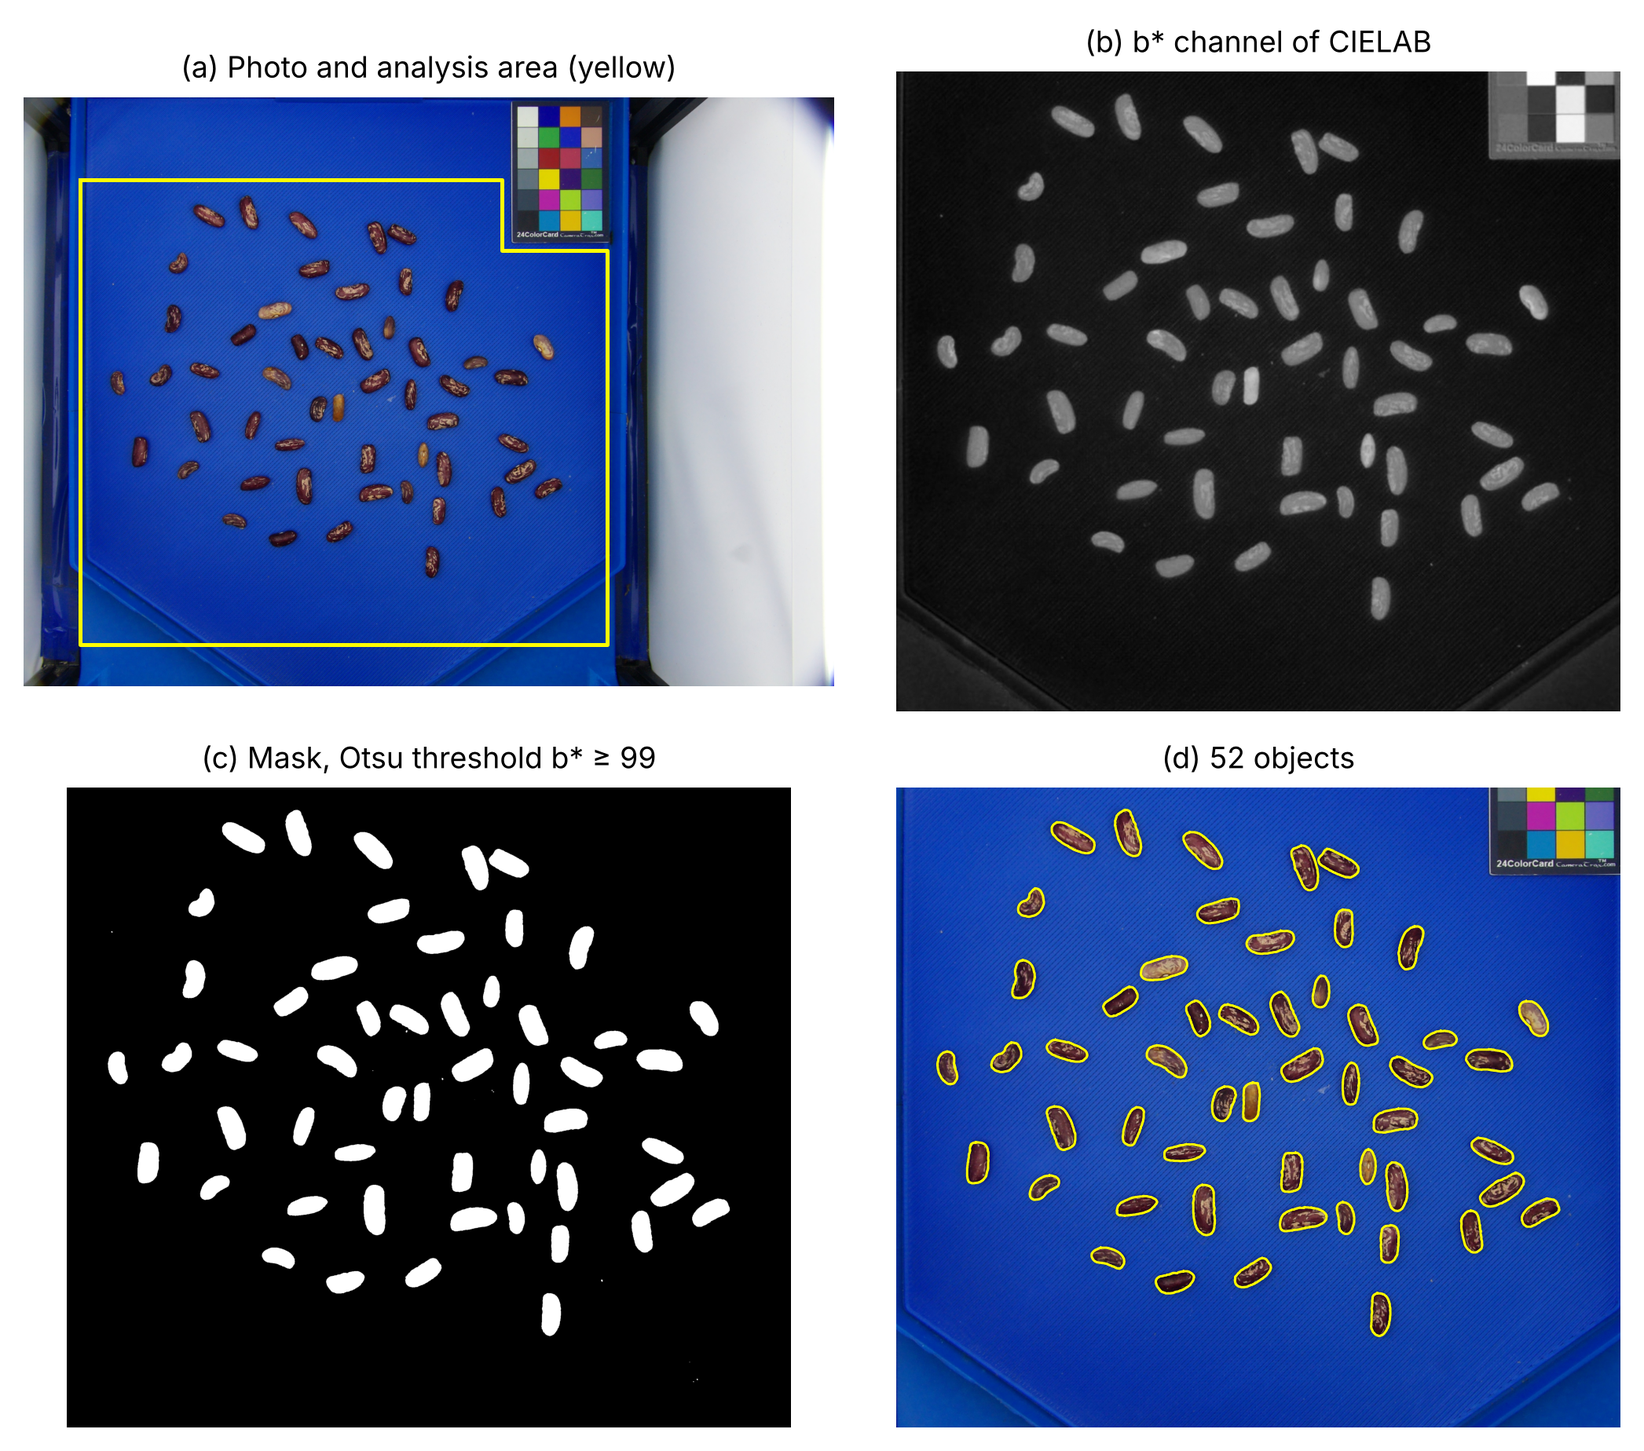
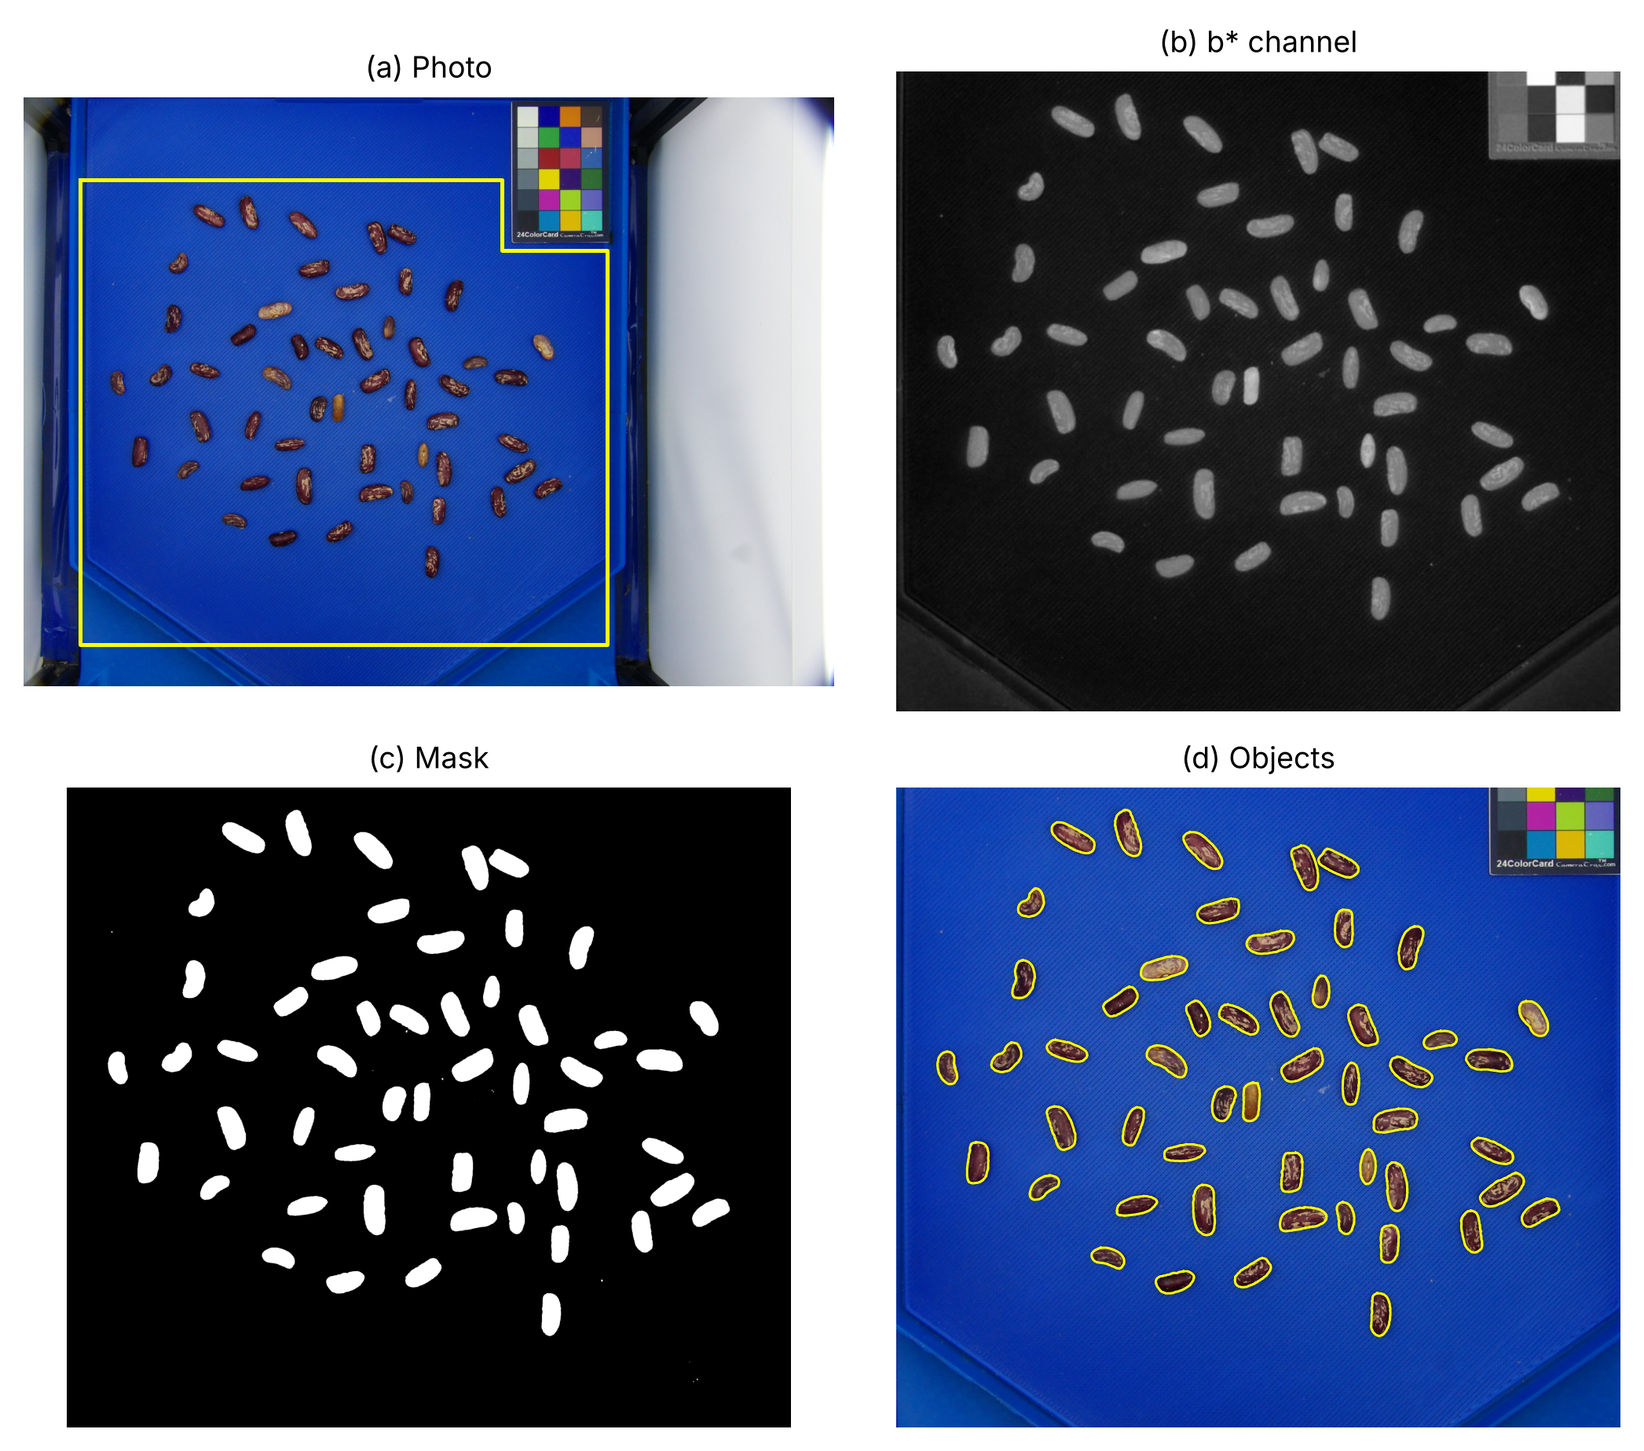
Docs: títulos y ejes cortos, explicación en los pies de figura

diff --git a/docs/make_figures.py b/docs/make_figures.py
@@ -161,16 +161,16 @@ def fig_lens():
     ax.set_axis_off()
     ax.imshow(rgb(photo[y0:y1, x0:x1]))
     ax.plot(corners[:, 0] - x0, corners[:, 1] - y0, "+", color=RED, ms=5, mew=1)
-    ax.set_title(f"(a) Chessboard, {len(corners)} inner corners")
+    ax.set_title("(a) Detected corners")
     ax = fig.add_subplot(grid[1])
     positions = np.arange(len(found))
-    ax.bar(positions - 0.2, rms_before, 0.4, color=GRAY, label=f"Original photo (mean {np.mean(rms_before):.2f} px)")
-    ax.bar(positions + 0.2, rms_after, 0.4, color=BLUE, label=f"Corrected photo (mean {np.mean(rms_after):.2f} px)")
+    ax.bar(positions - 0.2, rms_before, 0.4, color=GRAY, label="Original")
+    ax.bar(positions + 0.2, rms_after, 0.4, color=BLUE, label="Corrected")
     ax.set_xticks(positions, [str(i + 1) for i in positions])
-    ax.set_xlabel("Chessboard photo (corrected with a calibration from the other photos)")
-    ax.set_ylabel("Distance of the corners to a\nstraight line, RMS (px)")
+    ax.set_xlabel("Chessboard photo")
+    ax.set_ylabel("Line deviation, RMS (px)")
     ax.legend(frameon=False, loc="upper right")
-    ax.set_title("(b) Straightness of the chessboard rows and columns")
+    ax.set_title("(b) Straightness")
     save(fig, "lens.png")
     print(f"lens: {len(found)} photos, reprojection RMS {full.rms_error:.2f} px, "
           f"straightness {np.mean(rms_before):.2f} -> {np.mean(rms_after):.2f} px "
@@ -236,21 +236,21 @@ def fig_colorcard():
     for index, (x, y) in enumerate(centers):
         ax.text(x - x0, y - y0, str(index + 1), ha="center", va="center", fontsize=5.5, color="white",
                 bbox={"boxstyle": "circle,pad=0.15", "fc": "black", "ec": "none", "alpha": 0.55})
-    ax.set_title("(a) The 24 patches located")
+    ax.set_title("(a) Color card")
     patch_grid(fig.add_subplot(grid[0, 1]), data["measured"], reference, data["before"],
                "(b) Before correction")
     patch_grid(fig.add_subplot(grid[0, 2]), data["corrected"], reference, data["after"],
                "(c) After correction")
     ax = fig.add_subplot(grid[1, :])
     positions = np.arange(24)
-    ax.bar(positions - 0.2, data["before"], 0.4, color=GRAY, label=f"Before (mean {data['before'].mean():.1f})")
-    ax.bar(positions + 0.2, data["after"], 0.4, color=BLUE, label=f"After (mean {data['after'].mean():.1f})")
+    ax.bar(positions - 0.2, data["before"], 0.4, color=GRAY, label="Before")
+    ax.bar(positions + 0.2, data["after"], 0.4, color=BLUE, label="After")
     ax.set_xticks(positions, [str(i + 1) for i in positions])
     ax.set_xlabel("Patch")
-    ax.set_ylabel("Color difference (ΔE$_{00}$)")
+    ax.set_ylabel("ΔE$_{00}$")
     ax.set_ylim(0, 1.3 * max(data["before"].max(), data["after"].max()))
     ax.legend(frameon=False, ncol=2, loc="upper right")
-    ax.set_title("(d) Difference between each patch and its reference color")
+    ax.set_title("(d) Difference to the reference")
     save(fig, "colorcard.png")
     for photo in (CALIBRATION / "colorCard.jpg", DATA / "Cgiar_Bean_Sequia_Seeds" / "calibracion" / "colorCard.jpg",
                   DATA / "images" / "card_cameratrax.jpg"):
@@ -285,18 +285,18 @@ def fig_segmentation():
     axes[0, 0].imshow(rgb(img))
     closed = np.vstack([points, points[:1]])
     axes[0, 0].plot(closed[:, 0], closed[:, 1], color="yellow", lw=1.2)
-    axes[0, 0].set_title("(a) Photo and analysis area (yellow)")
+    axes[0, 0].set_title("(a) Photo")
     axes[0, 1].imshow(channel[view], cmap="gray")
-    axes[0, 1].set_title("(b) b* channel of CIELAB")
+    axes[0, 1].set_title("(b) b* channel")
     axes[1, 0].imshow(ctx.mask[view], cmap="gray")
-    axes[1, 0].set_title(f"(c) Mask, Otsu threshold b* ≥ {ctx.extra.get('otsu_threshold', 0):.0f}")
+    axes[1, 0].set_title("(c) Mask")
     axes[1, 1].imshow(rgb(img[view]))
     for object_id in range(1, int(ctx.labels.max()) + 1):
         mask = ctx.labels[view] == object_id
         if mask.any():
             contour = outline(mask)
             axes[1, 1].plot(contour[:, 0], contour[:, 1], color="yellow", lw=0.7)
-    axes[1, 1].set_title(f"(d) {int(ctx.labels.max())} objects")
+    axes[1, 1].set_title("(d) Objects")
     fig.tight_layout()
     save(fig, "segmentation.png")
 
@@ -311,13 +311,13 @@ def fig_segmentation():
     counts, _ = np.histogram(values, bins=256, range=(0, 255))
     ax.set_ylim(top=counts.max() * 40)
     ax.set_xlim(values.min() - 5, values.max() + 5)
-    ax.set_xlabel("b* value (8-bit scale; lower = bluer)")
-    ax.set_ylabel("Pixels (log scale)")
+    ax.set_xlabel("b*")
+    ax.set_ylabel("Pixels")
     below, above = values[values < threshold], values[values >= threshold]
     for group, name in ((below, "blue tray"), (above, "seeds")):
         peak = int(np.bincount(group.astype(int)).argmax())
         ax.text(peak, counts.max() * 4, name, fontsize=7, ha="center")
-    ax.text(threshold + 2, counts.max() * 12, f"Otsu threshold = {threshold:.0f}", fontsize=7, color=RED)
+    ax.text(threshold + 2, counts.max() * 12, f"Otsu {threshold:.0f}", fontsize=7, color=RED)
     save(fig, "otsu_histogram.png")
 
 
@@ -433,7 +433,7 @@ def fig_banana():
         ax.bar(positions, share, bottom=bottom, color=color, label=name.capitalize(), width=0.7)
         bottom += share
     ax.set_xticks(positions, [row["photo"] for row in rows], rotation=45, fontsize=6.5)
-    ax.set_ylabel("Share of the leaf (%)")
+    ax.set_ylabel("Share (%)")
     ax.set_ylim(0, 100)
     ax.legend(frameon=False, ncol=3, loc="lower right", bbox_to_anchor=(1.0, 1.0), fontsize=7.5)
     twin = ax.twinx()
@@ -441,7 +441,7 @@ def fig_banana():
     twin.set_ylabel("Leaf area (cm²)")
     twin.spines["top"].set_visible(False)
     ax.set_xlabel("Photo")
-    ax.set_title("(d) Leaf area and share of each color in the 13 photos", loc="left")
+    ax.set_title("(d) Leaf colors and area", loc="left")
     save(fig, "banana.png")
     print(f"banana: card {np.median(heights):.1f} px tall (range {min(heights):.1f}-{max(heights):.1f}, "
           f"{len(heights)} photos) -> {mm_per_px:.4f} mm/px")
@@ -504,18 +504,18 @@ def fig_separation():
     ax[0].imshow(shown)
     ax[0].set_title("(a) Touching seeds")
     ax[1].imshow(binary, cmap="gray")
-    ax[1].set_title("(b) Mask: one\nconnected region")
+    ax[1].set_title("(b) Mask")
     ax[2].imshow(distance, cmap="magma")
     ax[2].plot(peaks[:, 1], peaks[:, 0], "c+", ms=8, mew=1.5)
-    ax[2].set_title("(c) Distance to the\nbackground and its peaks")
+    ax[2].set_title("(c) Distance transform")
     ax[3].imshow(np.ma.masked_equal(basins, 0), cmap="tab10", interpolation="nearest")
-    ax[3].set_title("(d) Watershed from\nthe peaks")
+    ax[3].set_title("(d) Watershed")
     ax[4].imshow(shown)
     for object_id in range(1, int(final.labels.max()) + 1):
         if (final.labels == object_id).any():
             contour = outline(final.labels == object_id)
             ax[4].plot(contour[:, 0], contour[:, 1], lw=1.2, color="yellow")
-    ax[4].set_title(f"(e) Final objects: {len(np.unique(final.labels)) - 1}")
+    ax[4].set_title("(e) Objects")
     save(fig, "separation.png")
 
 
@@ -558,7 +558,7 @@ def fig_morphometry():
     ax[0].plot(contour[:, 0], contour[:, 1], color="#FFD700", lw=1)
     ax[0].plot(*np.vstack([rect, rect[:1]]).T, color=RED, lw=1)
     ax[0].plot(cx, cy, "w+", ms=8)
-    ax[0].set_title("(a) Outline, smallest enclosing\nrectangle and centroid")
+    ax[0].set_title("(a) Enclosing rectangle")
     gap = np.zeros(mask.shape, np.uint8)
     cv2.fillPoly(gap, [hull.astype(np.int32)], 1)
     gap = (gap > 0) & ~(mask > 0)
@@ -567,7 +567,7 @@ def fig_morphometry():
     ax[1].imshow(shade)
     ax[1].plot(contour[:, 0], contour[:, 1], color="#FFD700", lw=0.7)
     ax[1].plot(*np.vstack([hull, hull[:1]]).T, color=GREEN, lw=1.1, ls=(0, (3, 2)), zorder=3)
-    ax[1].set_title("(b) Convex hull (dashed green)\nover the outline (yellow)")
+    ax[1].set_title("(b) Convex hull")
     t = np.linspace(0, 2 * np.pi, 200)
     a = np.deg2rad(angle)
     x = ex + major / 2 * np.cos(t) * np.cos(a) - minor / 2 * np.sin(t) * np.sin(a)
@@ -577,7 +577,7 @@ def fig_morphometry():
     radius = np.hypot(points[:, 0] - cx, points[:, 1] - cy)
     for index, color in ((radius.argmin(), RED), (radius.argmax(), GREEN)):
         ax[2].plot([cx, points[index, 0]], [cy, points[index, 1]], color=color, lw=1)
-    ax[2].set_title("(c) Fitted ellipse, shortest and\nlongest radius from the centroid")
+    ax[2].set_title("(c) Ellipse and radii")
     save(fig, "morphometry.png")
 
 
@@ -628,9 +628,9 @@ def fig_color():
     fig, ax = panels(3, 2.9, 2.6)
     ax[0].imshow(shown)
     trim = int(np.clip(round(0.015 * np.sqrt(mask.sum())), 1, 3))
-    ax[0].set_title(f"(a) Edge removed\n({trim} px ring, magenta)")
+    ax[0].set_title("(a) Edge ring")
     ax[1].imshow(painted)
-    ax[1].set_title("(b) Each pixel replaced by\nthe color of its group (k = 3)")
+    ax[1].set_title("(b) k = 3")
     ax[2].set_axis_on()
     left = 0.0
     from fenotit.core.measurements.color import _lab
@@ -649,7 +649,7 @@ def fig_color():
     ax[2].set_xticks([])
     for side in ax[2].spines.values():
         side.set_visible(False)
-    ax[2].set_title("(c) The three colors and their\nshare of the seed")
+    ax[2].set_title("(c) Colors")
     save(fig, "color.png")
 
 
@@ -704,18 +704,18 @@ def fig_color_k():
     ax.axhline(color_step.AUTO_ERR, color=GRAY, ls="--", lw=1)
     ax.text(1, color_step.AUTO_ERR - 0.6, "limit 5", fontsize=7, color=GRAY)
     ax.axvline(chosen, color=BLUE, lw=0.8, alpha=0.4)
-    ax.set_xlabel("Number of colors k")
-    ax.set_ylabel("Mean ΔE$_{00}$ from each pixel\nto the color of its group")
-    ax.set_title("(a) How well k colors describe the seed", loc="left")
+    ax.set_xlabel("k")
+    ax.set_ylabel("Mean ΔE$_{00}$")
+    ax.set_title("(a) Fit", loc="left")
     ax = fig.add_subplot(bottom[0, 1])
-    ax.plot(ks[1:], [row[2] for row in rows[1:]], "o-", color=RED, label="Closest two colors (ΔE$_{00}$)")
+    ax.plot(ks[1:], [row[2] for row in rows[1:]], "o-", color=RED, label="Closest pair")
     ax.axhline(color_step.AUTO_SEP, color=GRAY, ls="--", lw=1)
     ax.text(ks[-1], color_step.AUTO_SEP + 0.6, "limit 10", ha="right", fontsize=7, color=GRAY)
     ax.axvline(chosen, color=BLUE, lw=0.8, alpha=0.4)
     ax.set_xticks(ks[1:])
-    ax.set_xlabel("Number of colors k")
-    ax.set_ylabel("ΔE$_{00}$ between the two\nclosest colors")
-    ax.set_title("(b) How distinct the k colors are", loc="left")
+    ax.set_xlabel("k")
+    ax.set_ylabel("ΔE$_{00}$, closest pair")
+    ax.set_title("(b) Separation", loc="left")
     save(fig, "color_k.png")
     counts = {}
     median = np.median([row["area_px2"] for row in ctx.tables["objects"] if row.get("area_px2")])
@@ -750,7 +750,7 @@ def fig_distances():
     triangles = Delaunay(centroids)
     ax.triplot(centroids[:, 0] - left, centroids[:, 1] - top, triangles.simplices, color="#FFD700", lw=0.6)
     ax.plot(centroids[:, 0] - left, centroids[:, 1] - top, "o", color=RED, ms=2)
-    ax.set_title("(a) Neighbors: Delaunay triangulation of the centroids")
+    ax.set_title("(a) Delaunay neighbors")
     pairs = sorted(ctx.tables["distances"], key=lambda row: row.get("center_distance_px", 1e9))
     pair = pairs[len(pairs) // 4]
     first, second = pair["object_a"], pair["object_b"]
@@ -763,7 +763,7 @@ def fig_distances():
     ax.plot([centers[first][0] - ox, centers[second][0] - ox], [centers[first][1] - oy, centers[second][1] - oy],
             color="#DDDDDD", lw=1, ls="--")
     ax.plot([point_a[0] - ox, point_b[0] - ox], [point_a[1] - oy, point_b[1] - oy], color=RED, lw=2.2)
-    ax.set_title("(b) Free space between two neighbors\nalong the line joining their centroids")
+    ax.set_title("(b) Edge-to-edge distance")
     save(fig, "distances.png")
 
 
@@ -818,7 +818,7 @@ def fig_detection():
     ax = fig.add_subplot(grid[0])
     ax.set_axis_off()
     ax.imshow(rgb(seed_view[int(0.06 * h):int(0.94 * h), int(0.2 * w):int(0.82 * w)]))
-    ax.set_title("(a) Detections per seed (Objects)", loc="left")
+    ax.set_title("(a) Detections per seed", loc="left")
     handles = [plt.Rectangle((0, 0), 1, 1, fc="none", ec=color, lw=1.5) for color in colors]
     ax.legend(handles, model["classes"], frameon=False, fontsize=5.5, loc="upper center", ncol=3,
               bbox_to_anchor=(0.5, 0.02))
@@ -826,14 +826,14 @@ def fig_detection():
     ax = fig.add_subplot(grid[1])
     ax.set_axis_off()
     ax.imshow(rgb(insect_view[int(0.3 * h):int(0.85 * h), int(0.25 * w):int(0.65 * w)]))
-    ax.set_title("(b) Adult insects in a dish (Detection)", loc="left")
+    ax.set_title("(b) Adult bruchids", loc="left")
     ax = fig.add_subplot(grid[2])
     values, counts = np.unique(holes, return_counts=True)
     ax.bar(values, counts, color=BLUE, width=0.7)
     ax.set_xticks(values)
-    ax.set_xlabel("Holes (class Agujero) per seed")
+    ax.set_xlabel("Holes per seed")
     ax.set_ylabel("Seeds")
-    ax.set_title(f"(c) {len(holes)} seeds, {len(SEED_PHOTOS)} photos", loc="left")
+    ax.set_title("(c) Holes per seed", loc="left")
     save(fig, "detection.png")
     totals = dict(zip(model["classes"], per_seed.sum(0).tolist()))
     print(f"detection: {len(holes)} seeds, holes per seed mean {holes.mean():.2f} (max {holes.max()}), "

diff --git a/docs/methods/01_corrections.md b/docs/methods/01_corrections.md
@@ -44,8 +44,9 @@ resolution is applied to photos of another resolution with the same aspect ratio
 the focal lengths and the optical center by the ratio of widths and heights.
 
 **Result on real photos.** Figure 1.1 uses the nine chessboard photos taken in the capture box
-of the bean seed photos (4040 × 3040 px, 7 × 6 inner corners). Each photo was corrected
-with a calibration made from the other eight. On a
+of the bean seed photos (4040 × 3040 px, 7 × 6 inner corners). The camera was calibrated nine
+times, each time with eight of the nine photos, and each calibration corrected the ninth photo
+(cross-validation). On a
 flat board the corners of each row and column lie on a straight line, so the distance from
 each corner to the line fitted through its row or column measures the remaining distortion.
 
@@ -64,8 +65,9 @@ corners of the frame extend the zone where the model is fitted to data.
 
 *Figure 1.1. Lens calibration in the capture box of the bean seed photos. (a) Inner corners
 found on one chessboard photo. (b) For each photo, the RMS distance of its corners to the
-straight line through their row or column, in the original photo (gray) and after the
-correction calibrated with the other eight photos (blue).*
+straight line through their row or column, in the original photo (gray, mean 1.11 px) and after the
+correction (blue, mean 0.38 px), each photo corrected with the calibration made from the other
+eight.*
 
 ## 1.2 Perspective (ArUco markers)
 
@@ -150,8 +152,8 @@ reached the cyan and the white (patches 18 and 19), and in the drought box also 
 *Figure 1.2. Color correction with the card of the Durango seed box. (a) The 24 patches, numbered
 in the order of the reference. (b, c) Each square shows the reference color around and the
 photographed color in the center, before and after the correction; the number under each
-square is ΔE₀₀. (d) ΔE₀₀ of each patch before (gray) and after (blue) the correction, each
-patch corrected with a fit to the other 23 patches.*
+square is ΔE₀₀. (d) ΔE₀₀ of each patch before (gray, mean 9.9) and after (blue, mean 4.1) the
+correction, each patch corrected with a fit to the other 23 patches.*
 
 ## 1.4 Scale
 

diff --git a/docs/methods/02_segmentation.md b/docs/methods/02_segmentation.md
@@ -9,9 +9,9 @@ Object detectors, which find objects as boxes instead of masks, are described in
 ![Segmentation](../img/segmentation.png)
 
 *Figure 2.1. Threshold segmentation of a tray of bean seeds (drought trial). (a) Photo with the
-analysis area drawn around the seeds, leaving out the color card. (b) The b\* channel of CIELAB:
-the blue tray is dark and the seeds are light. (c) Mask from the automatic (Otsu) threshold.
-(d) Outline of each object found.*
+analysis area (yellow) drawn around the seeds, apart from the color card. (b) The b\* channel of CIELAB:
+the blue tray is dark and the seeds are light. (c) Mask from Otsu's threshold (b\* ≥ 99).
+(d) Outlines of the 52 objects found.*
 
 ## 2.1 Color spaces
 
@@ -156,9 +156,10 @@ of a chosen diameter in pixels and can be repeated:
 
 **Filling holes.** A hole (background enclosed by an object, such as a bright hilum) is filled
 when its area is less than 0.2 times the typical object area, taken as the median area of the
-regions of the mask that measure at least 5 % of the largest. Larger holes stay as background:
-they are usually the background enclosed by a ring of touching objects. Holes that reach the
-border of the photo also stay as background. By default the list contains only "Fill holes".
+regions of the mask that measure at least 5 % of the largest. This limit
+separates a hole inside one object, which is small, from the background enclosed by a ring of
+touching objects, which is about the size of an object or larger. A hole that reaches the border
+of the photo is part of the background. By default the list contains only "Fill holes".
 
 ## 2.8 Area classification
 

diff --git a/docs/methods/04_morphometry.md b/docs/methods/04_morphometry.md
@@ -8,8 +8,8 @@ on. The outer outline of each object is traced with the algorithm of Suzuki & Ab
 
 *Figure 4.1. Geometry measured on one mottled bean seed from a Petri dish photo (bruchid trial,
 section 8.5). (a) Outline
-(yellow), smallest enclosing rectangle (red) and centroid (cross). (b) Convex hull (green), the
-outline of the seed with every concavity bridged. (c) Ellipse fitted to the outline (blue), and
+(yellow), smallest enclosing rectangle (red) and centroid (cross). (b) Convex hull (dashed green)
+over the outline (yellow): the outline with every concavity bridged. (c) Ellipse fitted to the outline (blue), and
 the shortest (red) and longest (green) distances from the centroid to the outline.*
 
 ## 4.1 What is measured

diff --git a/docs/methods/08_detection.md b/docs/methods/08_detection.md
@@ -11,7 +11,8 @@ objects of a mask (*Detections per object* in the *Objects* analysis).
 *Figure 8.1. A bruchid detection model (RF-DETR, five classes) in FenotIT. (a) Objects analysis
 with detections per object: seed outlines from the mask (yellow) and the boxes found in each
 seed, colored by class. (b) Detection analysis: adult bruchids in a Petri dish, each box is one
-object. (c) Number of holes (class Agujero) per seed in six photos of seed samples.*
+object. (c) Number of holes (class Agujero) per seed in six photos of seed samples (91
+seeds).*
 
 ## 8.1 Models
 

diff --git a/docs/methods/03_objects.md b/docs/methods/03_objects.md
@@ -22,7 +22,7 @@ cut by mistake and cut objects left joined.
 
 *Figure 3.1. Separation of four touching bean seeds (crop of a seed tray photo, drought trial).
 (a) The seeds. (b) In the mask they form one region. (c) Distance from each pixel to the
-background, with one peak per seed (crosses). (d) Watershed started from the peaks. (e) Final
+background, with one peak per seed (crosses). (d) Watershed started from the peaks. (e) The four
 objects after the joining rules.*
 
 **Distance to the background.** For each pixel of the mask, the distance transform gives the

diff --git a/docs/methods/06_color.md b/docs/methods/06_color.md
@@ -6,8 +6,8 @@ object.
 
 ![Color](../img/color.png)
 
-*Figure 6.1. Color of the seed of Figure 4.1. (a) The edge of the seed (magenta) is removed
-before measuring. (b) Each remaining pixel painted with the color of its group, with three
+*Figure 6.1. Color of the seed of Figure 4.1. (a) The 3 px ring removed from the edge of the seed
+(magenta) before measuring. (b) Each remaining pixel painted with the color of its group, with three
 groups. (c) The three colors, their share of the seed and their CIELAB values.*
 
 ## 6.1 Pixels used
